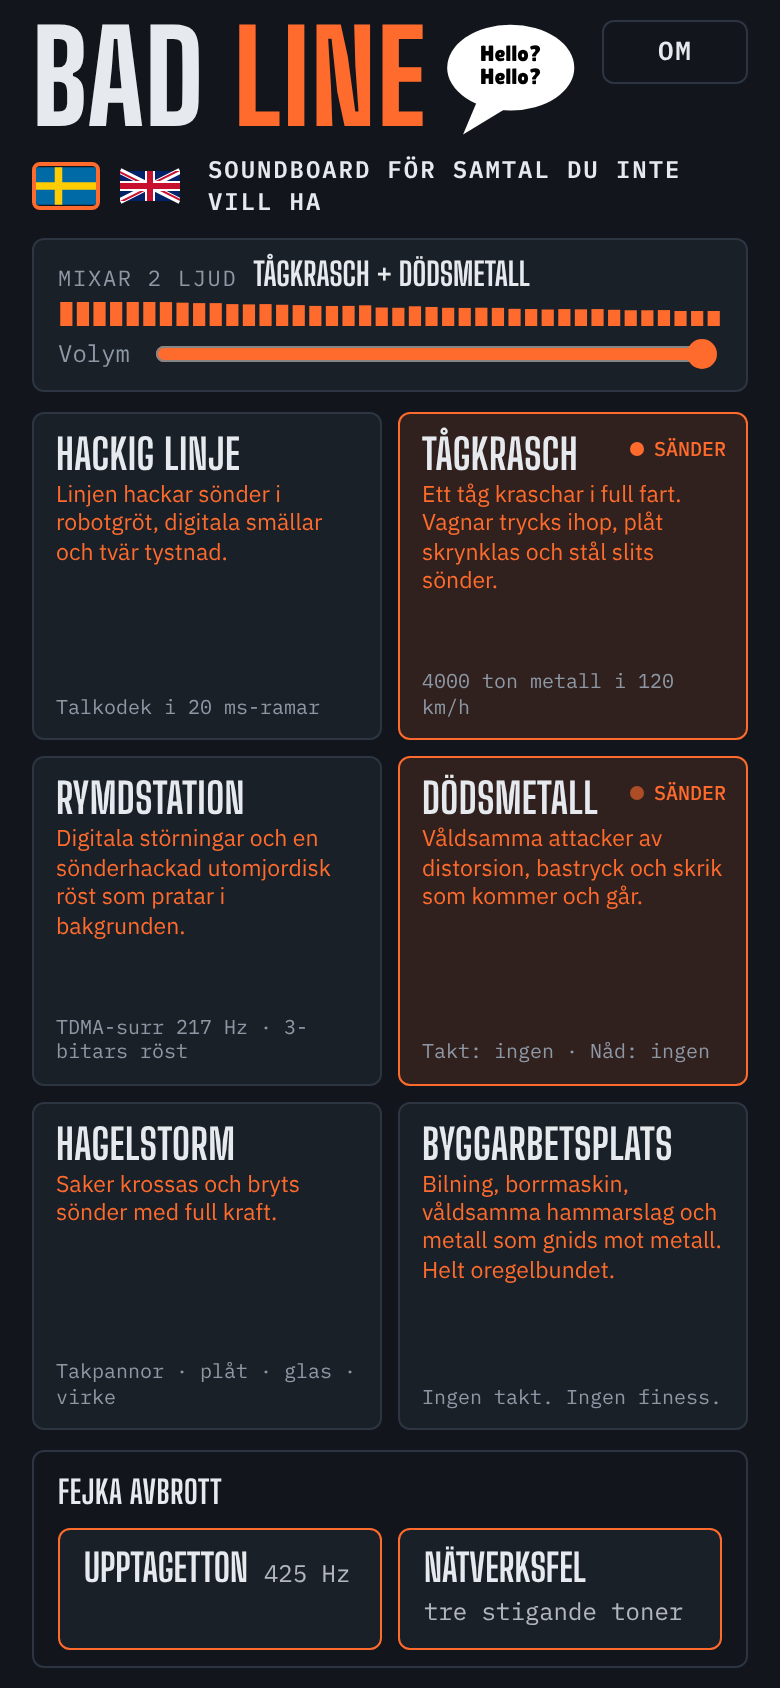
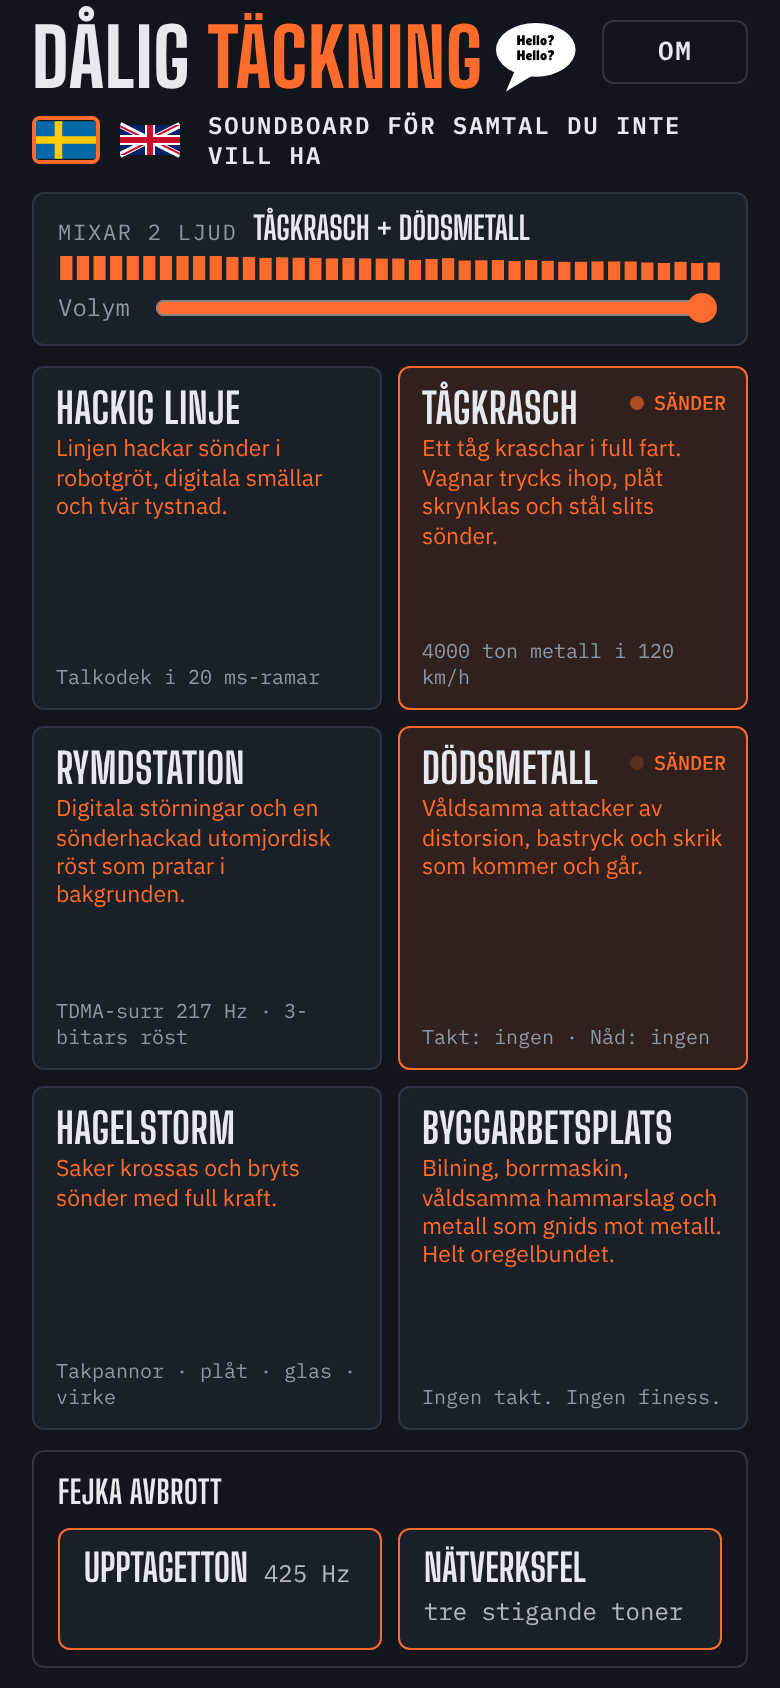
Swedish version shows the title Dålig täckning
Claude-Session: https://claude.ai/code/session_01AwVcDu5zv7prsN5VKHxPky

diff --git a/index.html b/index.html
@@ -556,7 +556,7 @@ function dropCall(mode,btn){
 }
 
 const I18N={
- sv:{title:'Bad Line',eyebrow:'Soundboard för samtal du inte vill ha',t1:'Bad ',t2:'Line',vol:'Volym',drop:'Fejka avbrott',busy:'Upptagetton',sit:'Nätverksfel',sitS:'tre stigande toner',bubble1:'Hello?',bubble2:'Hello?',about:'Om',aboutTitle:'Så funkar det',close:'Stäng',concept:'Koncept',conceptBy:'Rickard Lundgrens mobiltelefon',dev:'Utveckling',contact:'Kontakt',privacy:'Integritetspolicy',free:'Gratis, inga köp i appen och öppen källkod',version:'Version',disclaimer:'Appen spelar bara upp ljud i högtalaren. Den påverkar inte telefonnätet, samtal eller andra enheter.',
+ sv:{title:'Dålig täckning',eyebrow:'Soundboard för samtal du inte vill ha',t1:'Dålig ',t2:'täckning',vol:'Volym',drop:'Fejka avbrott',busy:'Upptagetton',sit:'Nätverksfel',sitS:'tre stigande toner',bubble1:'Hello?',bubble2:'Hello?',about:'Om',aboutTitle:'Så funkar det',close:'Stäng',concept:'Koncept',conceptBy:'Rickard Lundgrens mobiltelefon',dev:'Utveckling',contact:'Kontakt',privacy:'Integritetspolicy',free:'Gratis, inga köp i appen och öppen källkod',version:'Version',disclaimer:'Appen spelar bara upp ljud i högtalaren. Den påverkar inte telefonnätet, samtal eller andra enheter.',
    silent:'Tyst',pick:'Välj ett eller flera ljud',onair:'Sänder nu',mixing:n=>`Mixar ${n} ljud`,dropping:'Avbrott',breaking:'Samtalet bryts…',ch:'KANAL',live:'SÄNDER'},
  en:{title:'Bad Line',eyebrow:"Soundboard for calls you don't want",t1:'Bad ',t2:'Line',vol:'Volume',drop:'Fake a dropped call',busy:'Busy tone',sit:'Network error',sitS:'three rising tones',bubble1:'Hello?',bubble2:'Hello?',about:'About',aboutTitle:'How it works',close:'Close',concept:'Concept',conceptBy:"Rickard Lundgren's mobile phone",dev:'Development',contact:'Contact',privacy:'Privacy policy',free:'Free, no in-app purchases and open source',version:'Version',disclaimer:'The app only plays sound through the speaker. It does not affect the phone network, calls or other devices.',
    silent:'Silent',pick:'Pick one or more sounds',onair:'On air',mixing:n=>`Mixing ${n} sounds`,dropping:'Dropping',breaking:'Call breaking up…',ch:'CHANNEL',live:'ON AIR'}

diff --git a/sw.js b/sw.js
@@ -1,5 +1,5 @@
 // Offline support: cache the app shell on install, serve cache-first, keep fonts once fetched.
-const CACHE='badline-v7';
+const CACHE='badline-v8';
 const SHELL=['./','./index.html','./integritet.html','./manifest.webmanifest','./icons/icon-192-v2.png','./icons/icon-512-v2.png','./icons/icon-maskable-512-v2.png'];
 self.addEventListener('install',e=>{e.waitUntil(caches.open(CACHE).then(c=>c.addAll(SHELL)).then(()=>self.skipWaiting()))});
 self.addEventListener('activate',e=>{e.waitUntil(caches.keys().then(ks=>Promise.all(ks.filter(k=>k!==CACHE).map(k=>caches.delete(k)))).then(()=>self.clients.claim()))});
